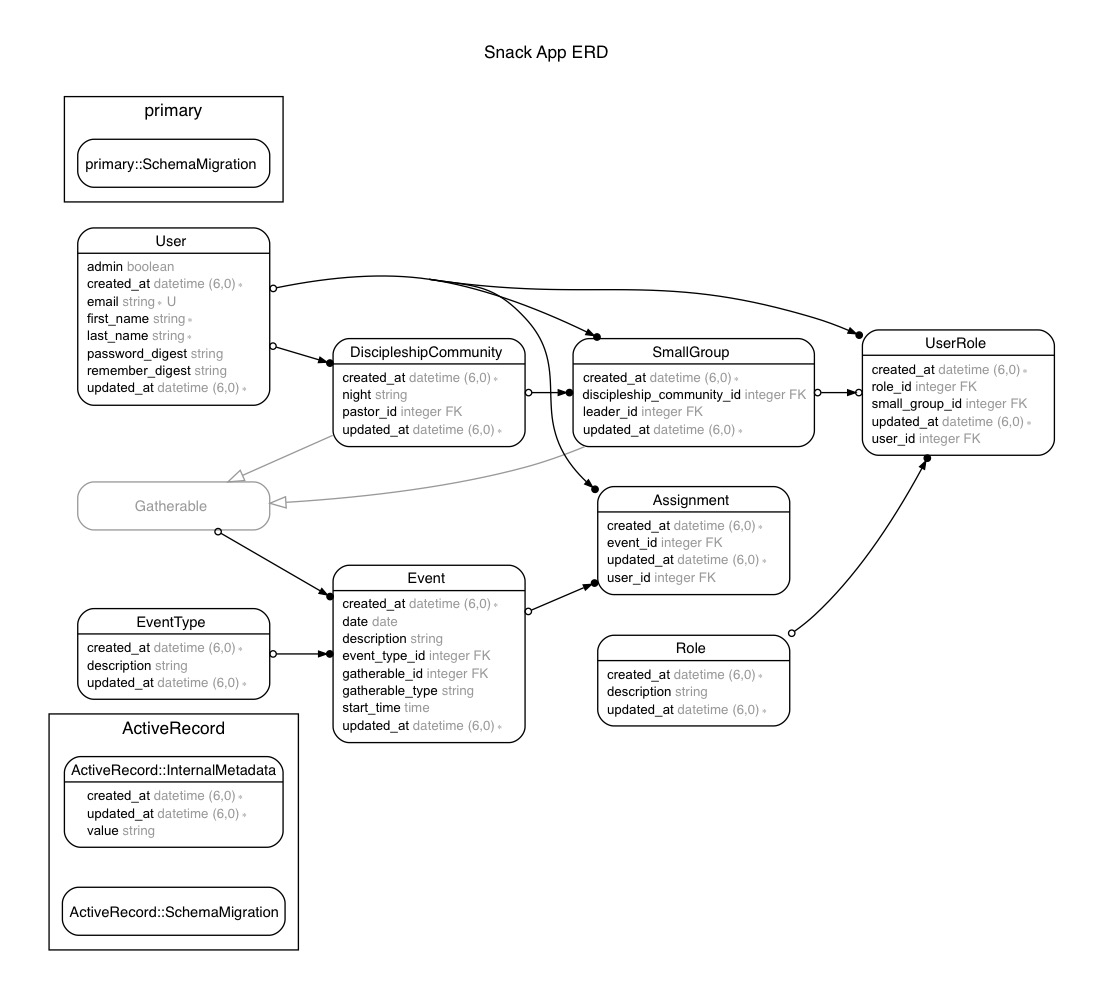
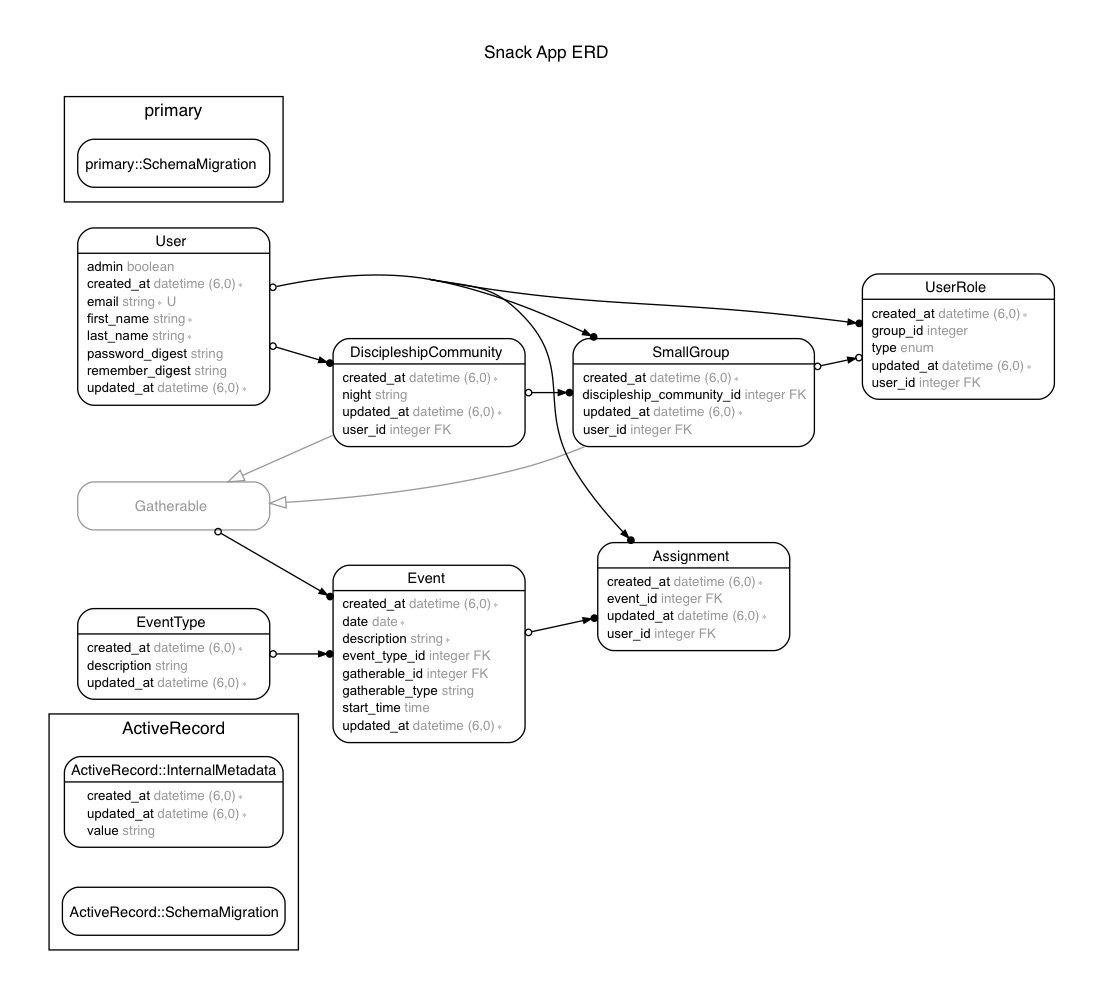
[WIP] events set up 3

diff --git a/db/schema.rb b/db/schema.rb
@@ -25,11 +25,11 @@ ActiveRecord::Schema.define(version: 2019_11_23_215507) do
   end
 
   create_table "discipleship_communities", force: :cascade do |t|
-    t.integer "pastor_id"
+    t.integer "user_id"
     t.string "night"
     t.datetime "created_at", precision: 6, null: false
     t.datetime "updated_at", precision: 6, null: false
-    t.index ["pastor_id"], name: "index_discipleship_communities_on_pastor_id"
+    t.index ["user_id"], name: "index_discipleship_communities_on_user_id"
   end
 
   create_table "event_types", force: :cascade do |t|
@@ -51,31 +51,17 @@ ActiveRecord::Schema.define(version: 2019_11_23_215507) do
     t.index ["event_type_id"], name: "index_events_on_event_type_id"
   end
 
-  create_table "roles", force: :cascade do |t|
-    t.string "description"
-    t.datetime "created_at", precision: 6, null: false
-    t.datetime "updated_at", precision: 6, null: false
-  end
-
   create_table "small_groups", force: :cascade do |t|
-    t.integer "leader_id"
+    t.integer "user_id"
     t.integer "discipleship_community_id"
     t.datetime "created_at", precision: 6, null: false
     t.datetime "updated_at", precision: 6, null: false
     t.index ["discipleship_community_id"], name: "index_small_groups_on_discipleship_community_id"
-    t.index ["leader_id"], name: "index_small_groups_on_leader_id"
+    t.index ["user_id"], name: "index_small_groups_on_user_id"
   end
 
-  create_table "user_roles", force: :cascade do |t|
-    t.integer "user_id"
-    t.integer "role_id"
-    t.integer "small_group_id"
-    t.datetime "created_at", precision: 6, null: false
-    t.datetime "updated_at", precision: 6, null: false
-    t.index ["role_id"], name: "index_user_roles_on_role_id"
-    t.index ["small_group_id"], name: "index_user_roles_on_small_group_id"
-    t.index ["user_id"], name: "index_user_roles_on_user_id"
-  end
+# Could not dump table "user_roles" because of following StandardError
+#   Unknown type 'user_role_type' for column 'type'
 
   create_table "users", force: :cascade do |t|
     t.string "first_name"
@@ -88,5 +74,5 @@ ActiveRecord::Schema.define(version: 2019_11_23_215507) do
     t.boolean "admin", default: false
   end
 
-  add_foreign_key "small_groups", "users", column: "leader_id"
+  add_foreign_key "small_groups", "users"
 end

diff --git a/db/seeds.rb b/db/seeds.rb
@@ -93,59 +93,45 @@ users = User.create([
   last_name = Faker::Name.last_name
   email = "fakeperson#{n+1}@faker.net"
   password = 'password'
-  User.create!(first_name: first_name,
-               last_name: last_name,
-               email: email,
-               password: password,
-               password_confirmation: password)
+  User.create!(
+    first_name: first_name,
+    last_name: last_name,
+    email: email,
+    password: password,
+    password_confirmation: password,
+  )
 end
 
-roles = Role.create([
-  {
-    description: 'Discipleship Community pastor'
-  },
-  {
-    description: 'Small group leader'
-  },
-  {
-    description: 'Small group member'
-  },
-  {
-    description: 'Discipleship Community coordinator'
-  },
-  {
-    description: 'Small group coordinator'
-  }
-])
+binding.pry
 
 user_roles = UserRole.create([
   {
     user_id: users[0].id,
-    role_id: roles[0].id
+    type: UserRole.types.values[0]
   },
   {
     user_id: users[1].id,
-    role_id: roles[1].id,
+    type: UserRole.types.values[1],
     small_group_id: 1
   },
   {
     user_id: users[2].id,
-    role_id: roles[2].id,
+    type: UserRole.types.values[2],
     small_group_id: 1
   },
   {
     user_id: users[6].id,
-    role_id: roles[1].id,
+    type: UserRole.types.values[1],
     small_group_id: 1
   },
   {
     user_id: users[7].id,
-    role_id: roles[3].id,
+    type: UserRole.types.values[3],
     small_group_id: 1
   },
   {
     user_id: users[8].id,
-    role_id: roles[4].id,
+    type: UserRole.types.values[4],
     small_group_id: 1
   }
 ])

diff --git a/db/migrate/20191020022616_create_user_roles.rb b/db/migrate/20191020022616_create_user_roles.rb
@@ -1,14 +1,23 @@
 class CreateUserRoles < ActiveRecord::Migration[6.0]
   def change
+    execute <<-DDL
+      CREATE TYPE user_role_type AS ENUM (
+        'discipleship_community_pastor',
+        'discipleship_community_coordinator',
+        'small_group_leader',
+        'small_group_member',
+        'small_group_coordinator'
+      );
+    DDL
+
     create_table :user_roles do |t|
       t.integer :user
-      t.integer :role
       t.integer :group
 
+      t.column :type, :user_role_type
       t.timestamps
     end
     add_index :user_roles, :user
-    add_index :user_roles, :role
     add_index :user_roles, :group
   end
 end

diff --git a/app/models/user_role.rb b/app/models/user_role.rb
@@ -1,5 +1,14 @@
 class UserRole < ApplicationRecord
-  belongs_to :role, foreign_key: "role_id"
   belongs_to :small_group, foreign_key: "small_group_id", optional: true
   belongs_to :user, foreign_key: "user_id"
+
+
+  self.inheritance_column = nil
+  enum type: {
+    discipleship_community_pastor: 'discipleship_community_pastor',
+    discipleship_community_coordinator: 'discipleship_community_coordinator',
+    small_group_leader: 'small_group_leader',
+    small_group_member: 'small_group_member',
+    small_group_coordinato: 'small_group_coordinator'
+  }
 end

diff --git a/db/migrate/20191021021255_change_column_names.rb b/db/migrate/20191021021255_change_column_names.rb
@@ -4,7 +4,6 @@ class ChangeColumnNames < ActiveRecord::Migration[6.0]
     rename_column :assignments, :user, :user_id
     rename_column :events, :event_type, :event_type_id
     rename_column :user_roles, :group, :group_id
-    rename_column :user_roles, :role, :role_id
     rename_column :user_roles, :user, :user_id
     rename_column :users, :user_role, :user_role_id
   end

diff --git a/db/migrate/20191110045139_change_column_name.rb b/db/migrate/20191110045139_change_column_name.rb
@@ -3,6 +3,5 @@ class ChangeColumnName < ActiveRecord::Migration[6.0]
     rename_column :discipleship_communities, :discipleship_community_night, :night
     rename_column :event_types, :event_type_description, :description
     rename_column :events, :event_description, :description
-    rename_column :roles, :role_description, :description
   end
 end

diff --git a/config/routes.rb b/config/routes.rb
@@ -9,7 +9,6 @@ Rails.application.routes.draw do
   resources :event_types
   resources :events
   resources :assignments
-  resources :roles
   resources :user_roles
 
   get '/login', to: 'sessions#new'
